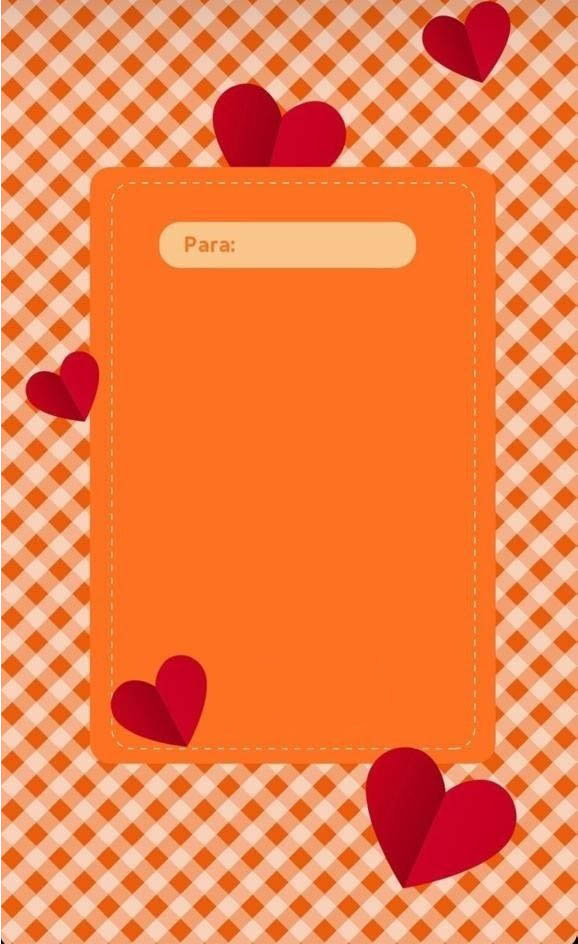
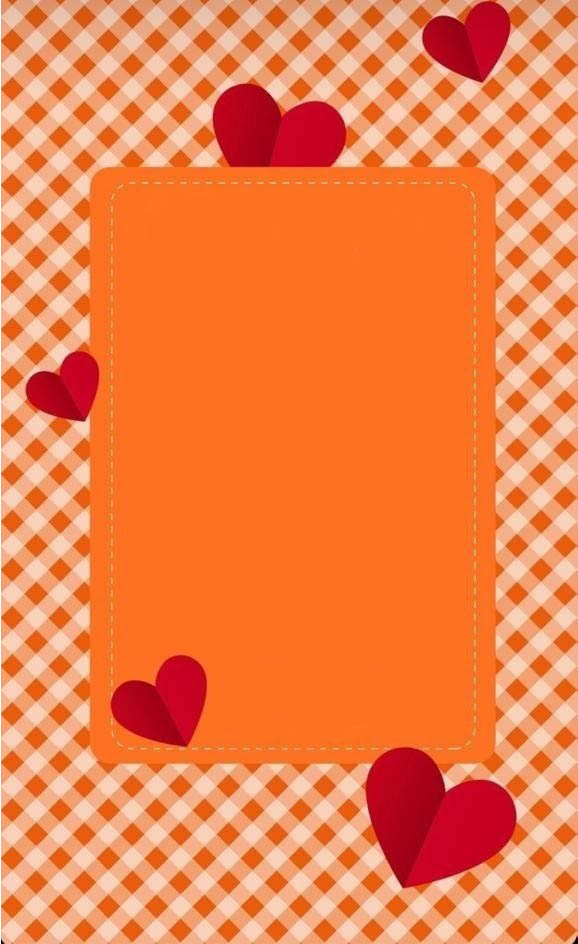
inclusao do else

Changed region(s): [[0.2491, 0.215, 0.7474, 0.3072]]

diff --git a/index.html b/index.html
@@ -67,6 +67,11 @@
                 divmsg.innerHTML = "Aqui vai a mensagem que eu quero que apareça para o Rafael"
                 divimg.setAttribute("style", stylemsg);
             }
+            else {
+                divmsg.innerHTML = "Infelizmente esse correio elegante nao pertence a você, mas se sinta uma pessoa muito especial e sem dúvida muito abençoada."
+                divimg.setAttribute("style", stylemsg);
+            }
+            
         }
     </script>
 </body>
